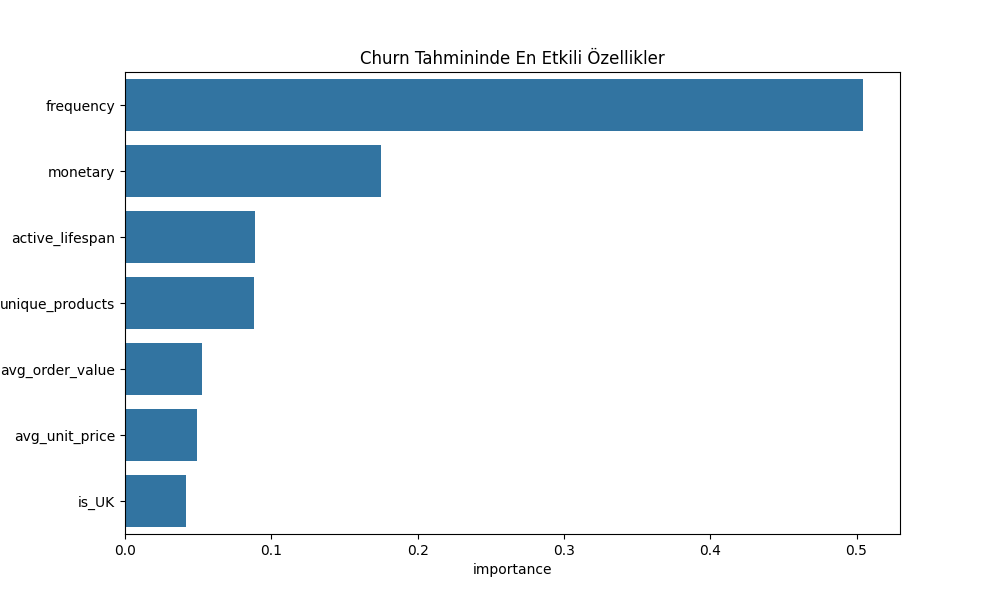
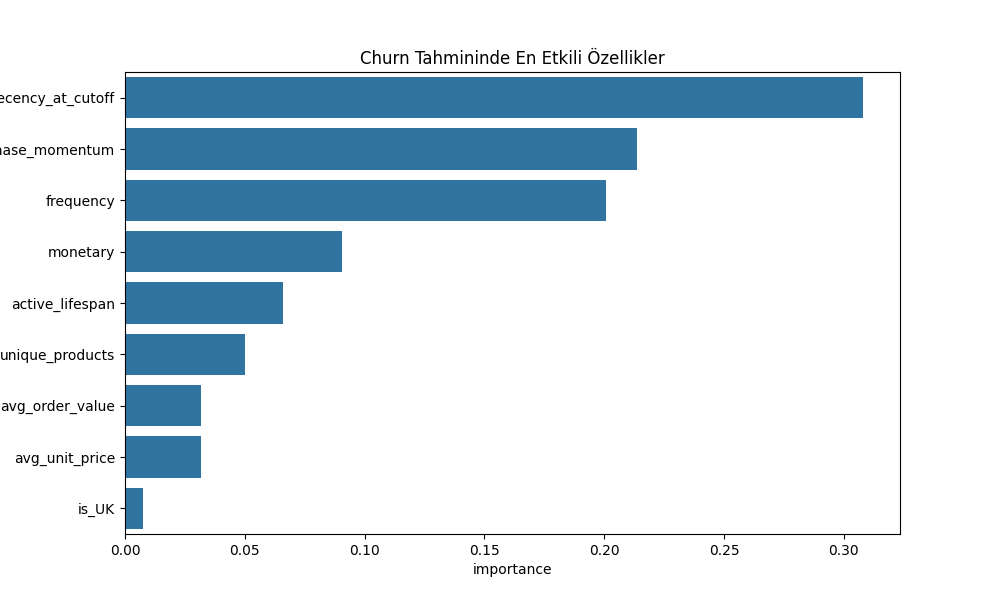
Determining thresholds and scale_pos_weight parameter removed

diff --git a/src/predict_churn.py b/src/predict_churn.py
@@ -8,9 +8,7 @@ from sklearn.metrics import classification_report, confusion_matrix, accuracy_sc
 from sklearn.model_selection import RandomizedSearchCV
 from config import CHURN_RECENCY_THRESHOLD
 
-df_rfm_segments  = pd.read_csv("data/rfm_with_clusters2.csv")
 df_rtail = pd.read_csv("data/cleaned_retail_data.csv") # Original Data
-print("df_model:",df_rfm_segments .info())
 print("df_rtail:",df_rtail.info())
 
 df_rtail['invoicedate'] = pd.to_datetime(df_rtail['invoicedate']) # Becasue it i scsv format I'm converting it to datetime format.
@@ -51,6 +49,7 @@ y_df['churn'] = y_df['customer_id'].apply(lambda x : 0 if x in customers_after_c
 # 5) Calculating Features for the model using past data (df_past)
 # I will calculate the features using the past data (df_past) to avoid data leakage
 X_df = df_past.groupby('customer_id').agg(
+   recency_at_cutoff = ('invoicedate', lambda x: (cut_off_date - x.max()).days), # Recency is calculated as the number of days between the cut-off date and the last purchase date.
    frequency = ('invoice', 'nunique'),
    monetary = ('total_revenue', 'sum'),
    avg_unit_price = ('price', 'mean'),
@@ -60,6 +59,16 @@ X_df = df_past.groupby('customer_id').agg(
 ).reset_index()
 
 X_df['avg_order_value'] = X_df['monetary'] / X_df['frequency'] # Average spending per order (monetary / frequency)
+
+# Purchase Trend (Son 90 gündeki sıklığın genele oranı)
+recent_window = cut_off_date - pd.Timedelta(days=90)
+freq_recent = df_past[df_past['invoicedate'] >= recent_window].groupby('customer_id')['invoice'].nunique()
+
+X_df = X_df.merge(freq_recent.rename('freq_last_90d'), on='customer_id', how='left')
+X_df['freq_last_90d'] = X_df['freq_last_90d'].fillna(0) # Filling NaN with 0 for customers who had no purchases in the last 90 days.
+X_df['purchase_momentum'] = X_df['freq_last_90d'] / X_df['frequency']
+
+X_df['avg_order_value'] = X_df['monetary'] / X_df['frequency']
 
 # 6) Merging the features and the target variable into a single DataFrame
 df_model = pd.merge(X_df, y_df, on='customer_id', how='inner')
@@ -81,11 +90,19 @@ print(df_model.columns) # ['customer_id', 'frequency', 'monetary', 'avg_unit_pri
 # For X, I eliminited customer_id, recency because it causes leakage, cluster and segment arised from recency.
 
 # Improved Model
-X = df_model[['frequency', 'monetary', 'avg_unit_price', 'unique_products', 'is_UK', 'avg_order_value', 'active_lifespan']]
+X = df_model[['recency_at_cutoff', 'frequency', 'monetary', 'avg_unit_price', 'unique_products', 'is_UK', 'avg_order_value', 'active_lifespan', 'purchase_momentum']]
 y = df_model['churn']
 
 # Train- test split
 X_train, X_test, y_train, y_test = train_test_split(X, y, test_size=0.2, random_state=42, stratify=y) 
+
+print(type(X_train))
+print(X_train.shape)
+print(X_train.dtypes)
+
+for col in X_train.columns:
+    if isinstance(X_train[col], pd.DataFrame):
+        print("Problemli kolon:", col)
 
 # scale_pos_weight (Giving more penalties on the minority class.) # 581 / 469 = 1.24 (Azınlıkta olan sınıfa ağırlık verme)
 neg_count = (y_train == 0).sum()  # Majority class (churn=0)
@@ -99,7 +116,7 @@ param_grid = {
     'n_estimators': [100, 150, 200, 300, 500],
     'subsample': [0.7, 0.8, 0.9],
     'colsample_bytree': [0.7, 0.8, 0.9],
-   'scale_pos_weight': [base_ratio * m for m in [0.5, 0.75, 1.0]] 
+   #'scale_pos_weight': [base_ratio * m for m in [0.5, 0.75, 1.0]] 
 }
 
 xgb_search = RandomizedSearchCV(XGBClassifier(eval_metric='logloss'), 
@@ -119,49 +136,27 @@ print("En iyi parametreler:", xgb_search.best_params_)
 
 # -------------------------------- RESULTS --------------------------------
 
-# NEW VERSION 1: Threshold Optimization 
-# Instead of using the default 0.5 probability threshold, I search for the optimal cutoff that balances precision and recall.
-# The goal is to maximize recall while keeping precision above 0.85, which is critical for churn prediction (minimizing missed churners).
-
 y_probs = best_model.predict_proba(X_test)[:, 1]
+y_pred = (y_probs >= 0.50).astype(int)
 
-# Threshold Optimizasyonu
-# Default 0.5 yerine, Recall'ı maximize eden threshold'u buluyoruz.
-# Churn'de yanlış negatif (kaçırılan müşteri) >> yanlış pozitif (gereksiz kampanya)
-precision_arr, recall_arr, thresholds = precision_recall_curve(y_test, y_probs)
-
-# Minimum %85 precision şartıyla en yüksek recall'ı veren threshold
-valid_mask = precision_arr[:-1] >= 0.70
-if valid_mask.any():
-    best_threshold = thresholds[valid_mask][np.argmax(recall_arr[:-1][valid_mask])]
-else:
-    best_threshold = 0.5  # Fallback
-
-print(f"Optimal Threshold: {best_threshold:.2f}")
-
-y_pred = (y_probs >= best_threshold).astype(int)
+print("\n--- BALANCED MODEL RESULTS ---")
 print(classification_report(y_test, y_pred))
-
-
-# OLD VERSION: Default 0.5 threshold
-# y_pred = best_model.predict(X_test) # Default 0.5 threshold
-# print(classification_report(y_test, y_pred))
 
 """
               precision    recall  f1-score   support
 
-           0       0.80      0.48      0.60       469
-           1       0.68      0.91      0.78       581
+           0       0.77      0.66      0.71       469
+           1       0.75      0.84      0.79       581
 
-    accuracy                           0.72      1050
-   macro avg       0.74      0.69      0.69      1050
-weighted avg       0.74      0.72      0.70      1050
+    accuracy                           0.76      1050
+   macro avg       0.76      0.75      0.75      1050
+weighted avg       0.76      0.76      0.76      1050
 """
-# In churn prediction, I aimed to maximize Recall (0.91) because we are able to capture 91% of customers who are likely to churn in advance.
-# Yes, Precision came out as 0.68; meaning that out of every 100 customers we predict as "will churn," 32 actually would not churn (False Positives).
+# In churn prediction, I aimed to maximize Recall (0.84) because we are able to capture 84% of customers who are likely to churn in advance.
+# Yes, Precision came out as 0.75; meaning that out of every 100 customers we predict as "will churn," 25 actually would not churn (False Positives).
 # However, for an e-commerce company, losing a loyal customer completely is much more costly than mistakenly offering a discount coupon to someone who would not churn.
 
-# The feature that contributed most to improving my score was 'active_lifespan'. The other features, 'is_UK' and 'avg_order_value', did not cause any change in my Recall score.
+# The feature that contributed most to improving my score was 'recency_at_cutoff ', 'purchase_momentum ', 'active_lifespan'. The other features, 'is_UK' and 'avg_order_value', did not cause any change in my Recall score.
 
 
 # -------------------------------- EVALUATION METRICS --------------------------------
@@ -205,10 +200,5 @@ plt.title('Churn Tahmininde En Etkili Özellikler')
 plt.savefig('analyze_img/feature_importance_churn.png')
 print("\nÖzellik Önem Sıralaması:")
 print(importances)
-
-
-
-
-
 
 # docker compose exec analysis_app python src/predict_churn.py

diff --git a/src/process.py b/src/process.py
@@ -18,6 +18,7 @@ warnings.filterwarnings("ignore", message=".*font.*")
 df = pd.read_csv("data/cleaned_retail_data.csv")
 
 # -------------------------------- EDA --------------------------------
+
 print("Veri setinin ilk 5 satırı:-----------------------")
 print(df.head())
 print("\nVeri setinin genel bilgisi:-----------------------")
@@ -67,9 +68,6 @@ monetary     5878.0   2869.961142  14002.181211     2.95  330.6825   835.97  218
 
 """
 # -------------------------------- Feature Engineering --------------------------------
-# Customer segments scatter plot'u inceledikten sonra segmentlerin birbirinden ayrıldığını ancak daha net bir ayrım 
-# için bazı ekstra featurelerin eklenmesinin faydalı olabileceğini düşündüm. Bu şekilde kümeleri birbirinden uzaklaştırmış olacağım.
-
 # 1) Average Unit Price (AUP): Müşteri genelde ucuz ürünler mi alıyor yoksa lüks/pahalı ürünler mi? (Monetary'den farklı)
 # 2) Product Diversity (Ürün Çeşitliliği): Toplam kaç farklı StockCode satın almış? (Niche bir alıcı mı yoksa her şeyi alan bir genel alıcı mı?).
 
@@ -146,7 +144,6 @@ rfm_expanded["monetary"] = np.log1p(rfm_expanded["monetary"])
 rfm_expanded["unique_products"] = np.log1p(rfm_expanded["unique_products"]) 
 rfm_expanded["avg_unit_price"] = np.log1p(rfm_expanded["avg_unit_price"])
 rfm_expanded["active_lifespan"] = np.log1p(rfm_expanded["active_lifespan"])
-
 
 print("Logaritmik dönüşüm sonrası RFM değerlerinin ve yeni featurelerin istatistikleri:-----------------------")
 print(rfm_expanded.describe([0.25, 0.5, 0.75, 0.97]).T)
